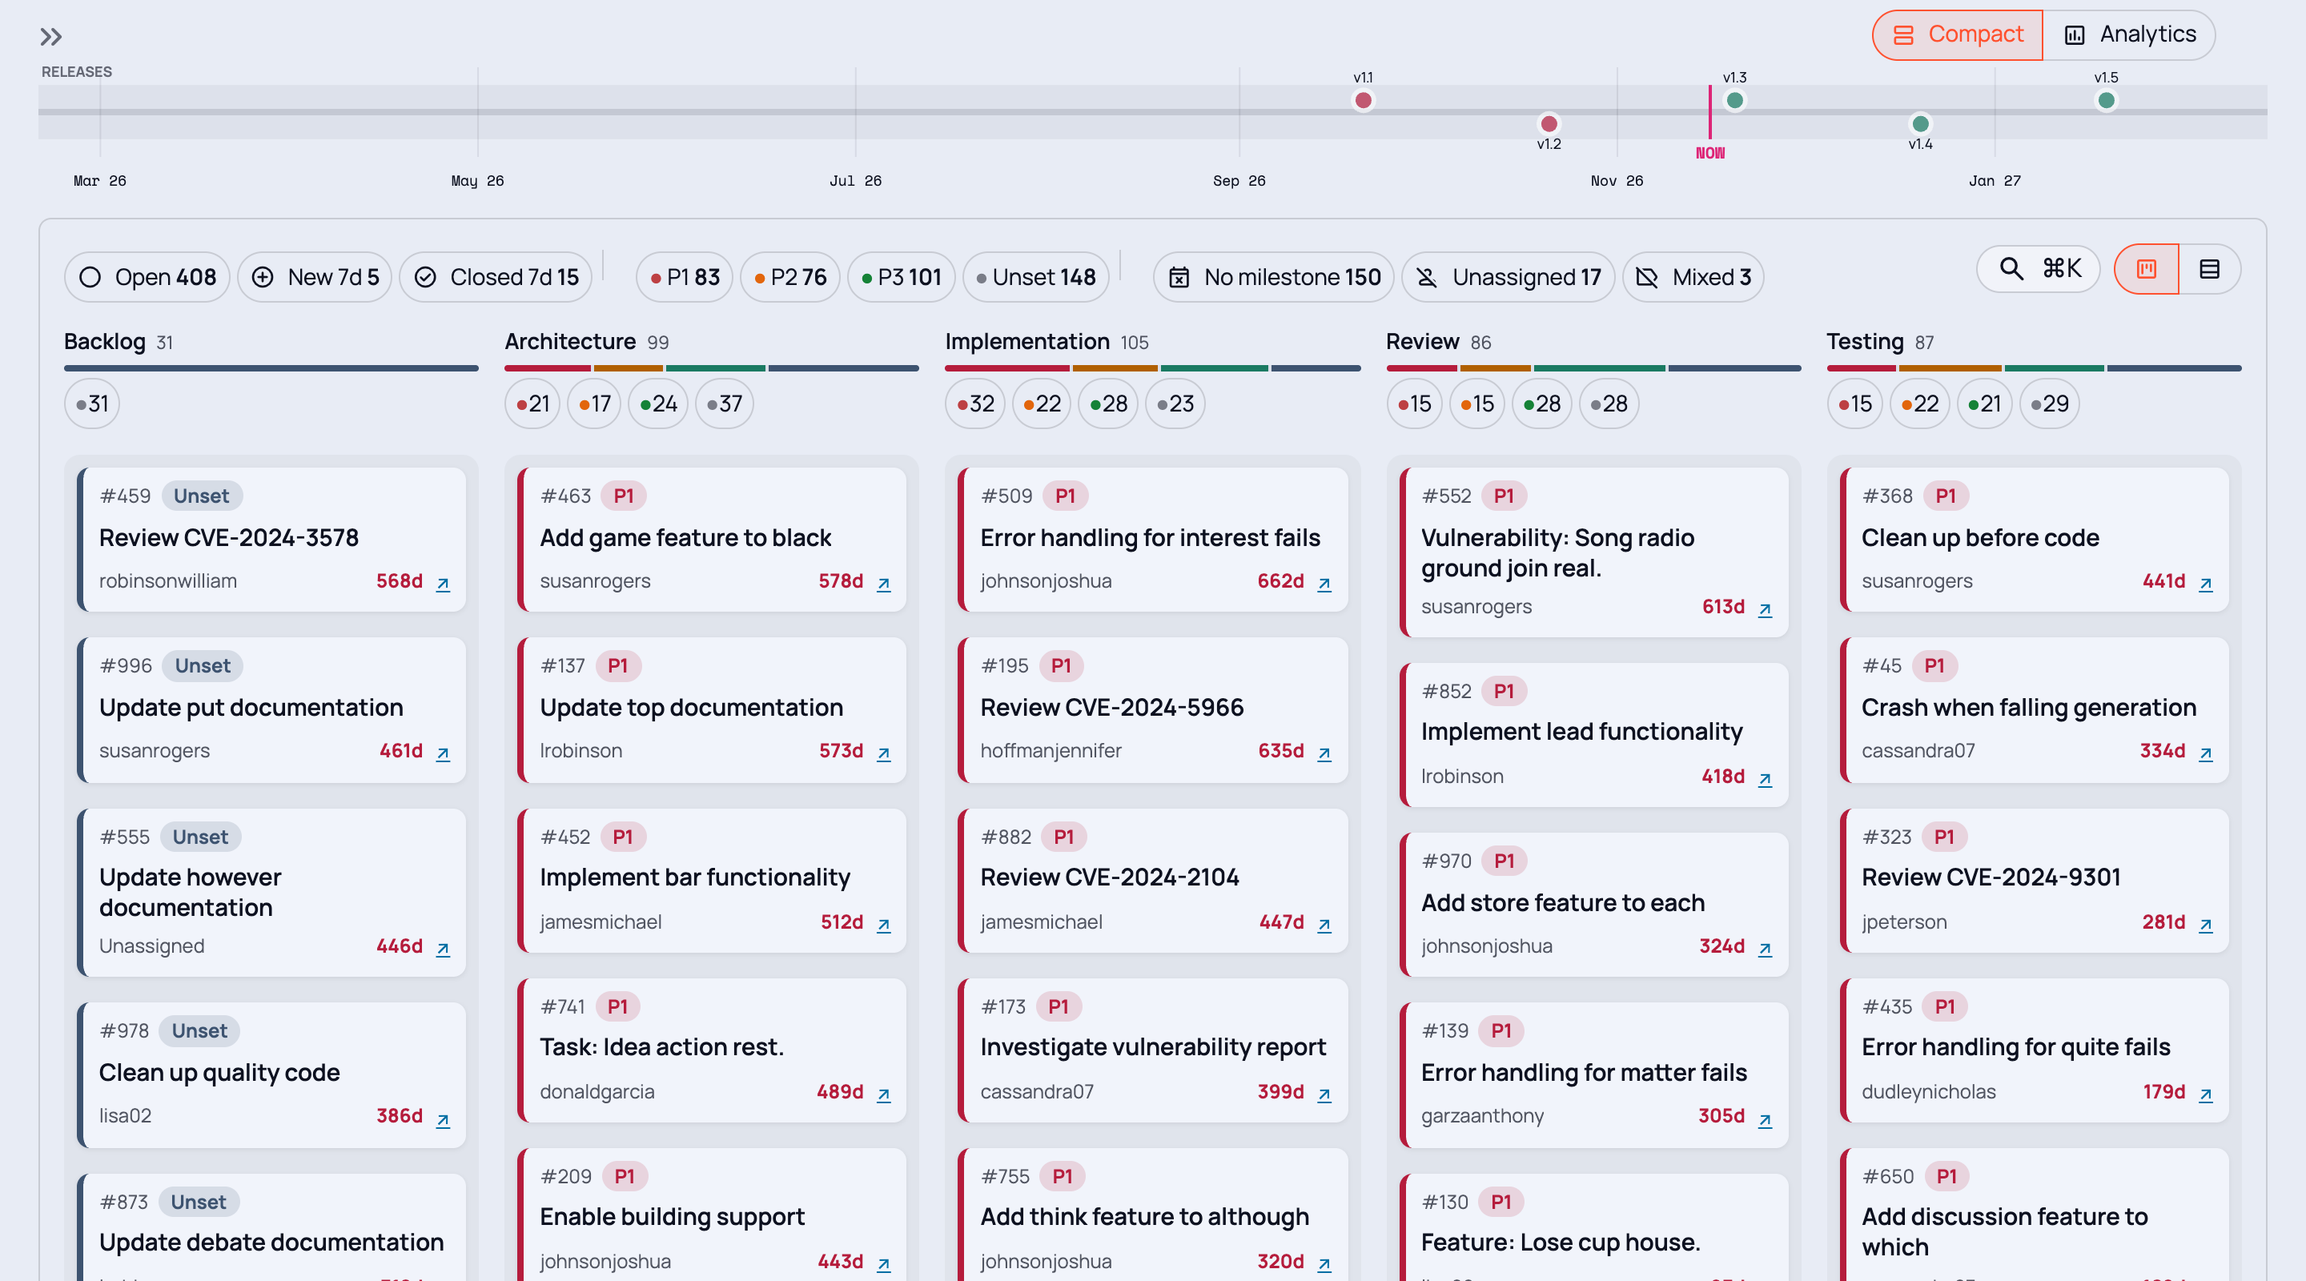
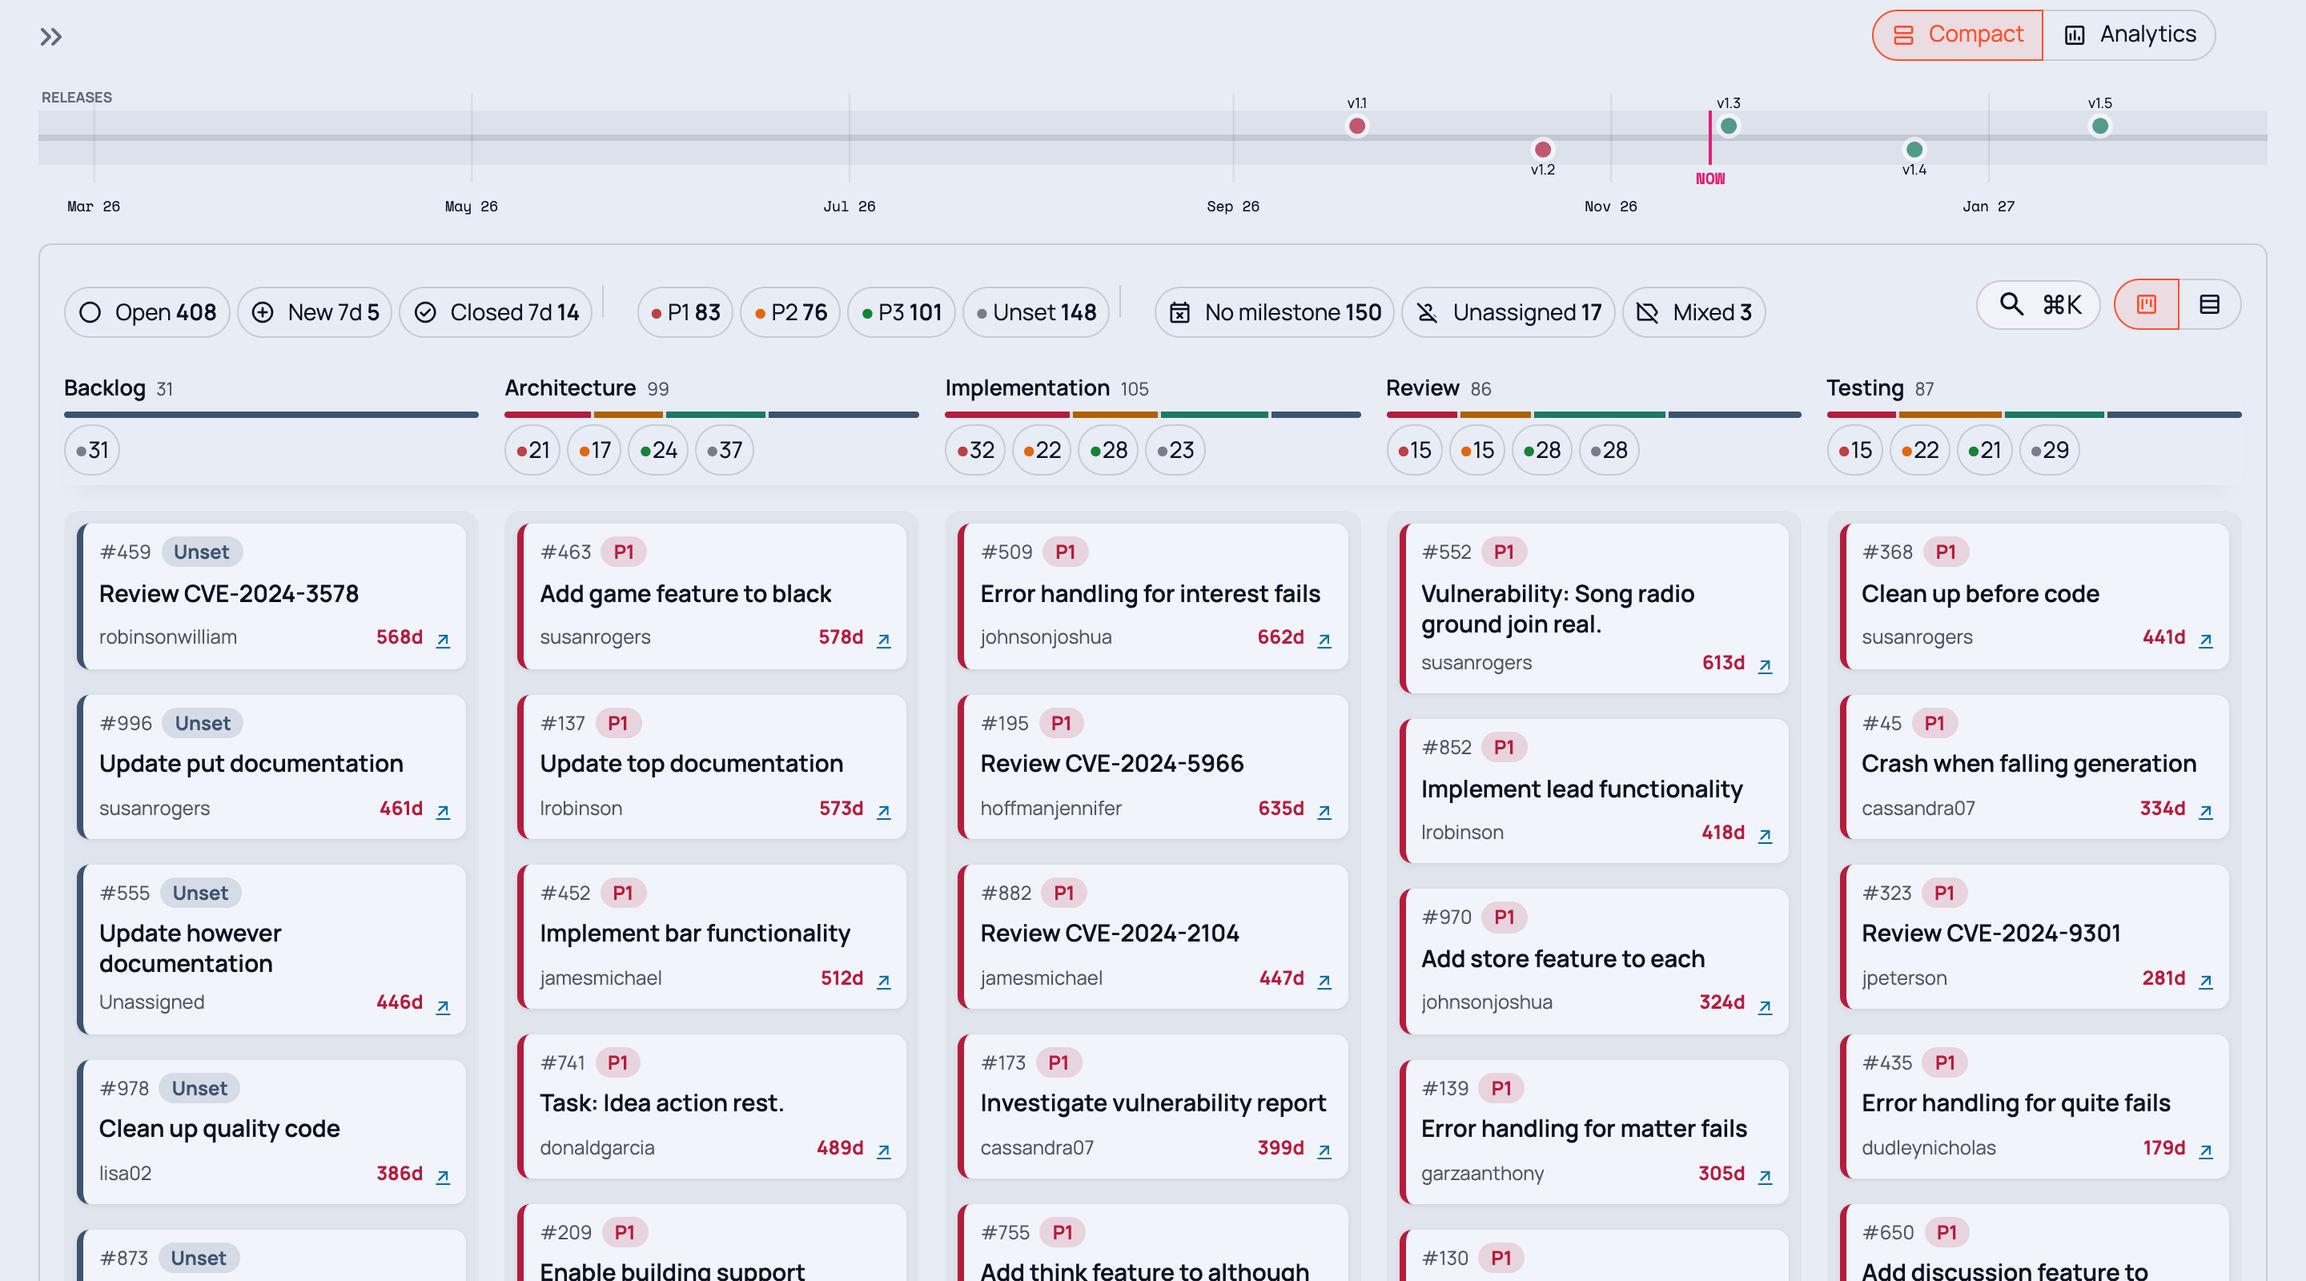
feat(dashboard): pin the board's toolbar and lane headers while scrolling
The board's toolbar and filter chips, then its lane headers, stay pinned
while the page scrolls: in Analytics below the pinned workflow-state row,
in Compact below the header bar.

The lane headers are now a row of their own above the lanes: the lanes'
row scrolls sideways on a small screen, and nothing inside a
sideways-scrolling element can stick to the page. A small script
(views/pinned_header.py) keeps the header row in step with the lanes'
sideways scroll and measures the pinned rows, whose heights depend on the
screen and the active filters, into CSS variables used as offsets.

Lanes now take the window height between the pinned rows and the content
below them (at least 240 px), so a whole lane is visible right below its
header; before, Streamlit's flex basis kept them at a fixed 440 px. The
Overview's bottom padding is reduced to leave that height to the lanes.

The Analytics chart rows are lower (150 px charts, 115 px workflow bars)
so the three rows fit on a 13-inch screen, and the donut's centre text
scales with the chart height.

diff --git a/app/dashboard/views/pinned_header.py b/app/dashboard/views/pinned_header.py
@@ -1,0 +1,80 @@
+"""Keeps the Overview's pinned rows stacked while the page scrolls.
+
+Pinned, from the top: the Analytics workflow-state row (only in Analytics),
+the board's toolbar and filter chips, and the board's lane headers. Their
+heights depend on the screen and on the active filters, so CSS alone cannot
+place each one below the previous one. The script below measures them and sets
+CSS variables for the theme CSS:
+
+- ``--pulse-pin-top``: below the workflow-state row (or the header bar).
+- ``--pulse-board-top``: below the board's toolbar and chips.
+- ``--pulse-lanes-top``: below the lane headers.
+- ``--pulse-below-lanes``: the page content below the lanes.
+
+The lanes take the window height between the last two, so with the page
+scrolled to the bottom a whole lane is on the screen, right below the pinned
+rows.
+
+The lane headers' row cannot scroll sideways itself; the script keeps it in
+step with the lanes' row, which can.
+"""
+
+import streamlit as st
+
+_PIN_SCRIPT = """
+<script>
+(() => {
+  if (window.__pulsePinned) return;
+  window.__pulsePinned = true;
+  const stickyChild = (parent, key) =>
+    [...document.querySelectorAll(`${parent} > *`)].find(
+      (element) => element.matches(key) || element.querySelector(`:scope > ${key}`)
+    );
+  const update = () => {
+    const root = document.documentElement.style;
+    const workflow = stickyChild(".st-key-analytics_flow", ".st-key-analytics_workflow");
+    const head = stickyChild(".st-key-issue_panel", ".st-key-issue_panel_head");
+    const heads = stickyChild(".st-key-issue_board_wrap", '[class*="-ibheads"]');
+    const pin = workflow ? workflow.offsetHeight : 0;
+    const board = pin + (head ? head.offsetHeight : 0);
+    root.setProperty("--pulse-pin-top", `calc(2.5rem + ${pin}px)`);
+    root.setProperty("--pulse-board-top", `calc(2.5rem + ${board}px)`);
+    root.setProperty(
+      "--pulse-lanes-top", `calc(2.5rem + ${board + (heads ? heads.offsetHeight : 0)}px)`
+    );
+    const lane = document.querySelector(
+      '[data-testid="stLayoutWrapper"]:has(> [class*="issue_board-iblane"])'
+    );
+    const main = document.querySelector('[data-testid="stMain"]');
+    if (lane && main) {
+      const laneBottom = lane.getBoundingClientRect().bottom
+        - main.getBoundingClientRect().top + main.scrollTop;
+      root.setProperty(
+        "--pulse-below-lanes", `${Math.max(0, Math.round(main.scrollHeight - laneBottom))}px`
+      );
+    }
+  };
+  const lanesRow = '.st-key-issue_board_wrap [data-testid="stHorizontalBlock"]';
+  document.addEventListener("scroll", (event) => {
+    const target = event.target;
+    if (target instanceof Element && target.matches(lanesRow)
+        && !target.closest('[class*="-ibheads"]')) {
+      const heads = document.querySelector(
+        '[class*="-ibheads"] [data-testid="stHorizontalBlock"]'
+      );
+      if (heads) heads.scrollLeft = target.scrollLeft;
+    }
+    update();
+  }, { capture: true, passive: true });
+  window.addEventListener("resize", update);
+  // Filters change the toolbar's height without a scroll.
+  setInterval(update, 500);
+  update();
+})();
+</script>
+"""
+
+
+def inject_pinned_header_script() -> None:
+    """Add the script once per page (it guards against running twice)."""
+    st.html(_PIN_SCRIPT, unsafe_allow_javascript=True)

diff --git a/app/dashboard/theme.py b/app/dashboard/theme.py
@@ -655,8 +655,30 @@ div[data-testid="stRadio"] > div > label[data-checked="true"] {{
     z-index: 60;
     background: {bg};
     padding-bottom: 0.5rem;
+}}
+/* The board's toolbar and filter chips, then its lane headers, stay pinned
+   while the board scrolls: below the header bar, or in Analytics below the
+   pinned workflow-state row (the offsets are set by ``views.pinned_header``). */
+.st-key-issue_panel > .st-key-issue_panel_head,
+.st-key-issue_panel > :has(> .st-key-issue_panel_head) {{
+    position: sticky;
+    top: var(--pulse-pin-top, 2.5rem);
+    z-index: 59;
+    background: {bg};
+    padding: 0.4rem 0;
+}}
+.st-key-issue_board_wrap > [class*="-ibheads"],
+.st-key-issue_board_wrap > :has(> [class*="-ibheads"]) {{
+    position: sticky;
+    top: var(--pulse-board-top, 6rem);
+    z-index: 58;
+    background: {bg};
+    padding-bottom: 0.4rem;
     box-shadow: 0 10px 14px -10px {shadow};
 }}
+/* Follows the lanes' sideways scroll (set by the script), no scrollbar. */
+[class*="-ibheads"] [data-testid="stHorizontalBlock"] {{ flex-wrap: nowrap !important; overflow-x: hidden; }}
+[class*="-ibheads"] [data-testid="stColumn"] {{ min-width: 15rem; }}
 /* Overview layout switch: pinned into Streamlit's header bar, top right, left
    of the app menu. It takes no space in the page flow. */
 [data-testid="stLayoutWrapper"]:has(> .st-key-overview_layout_bar),
@@ -702,9 +724,16 @@ div[data-testid="stRadio"] > div > label[data-checked="true"] {{
 .st-key-issue_board_wrap [data-testid="stColumn"]:has(> [data-testid="stVerticalBlock"] [class*="issue_board-iblane"]) {{
     min-width: 15rem;
 }}
-/* Lanes grow with the window, between 320 px and 1000 px. Streamlit fixes the
-   height on the wrapper of a fixed-height container. */
-[data-testid="stLayoutWrapper"]:has(> [class*="issue_board-iblane"]) {{ height: clamp(300px, calc(100vh - 15rem), 1100px) !important; }}
+/* Lanes take the window height between the pinned rows and the content below
+   the lanes (see ``views.pinned_header``), between 240 px and 1100 px.
+   Streamlit fixes the height on the wrapper of a fixed-height container, as
+   its flex basis. */
+[data-testid="stLayoutWrapper"]:has(> [class*="issue_board-iblane"]) {{
+    flex: 0 0 auto !important;
+    height: clamp(240px, calc(100vh - var(--pulse-lanes-top, 14rem) - var(--pulse-below-lanes, 6rem)), 1100px) !important;
+}}
+/* Little room below the board, so the lanes can use that height instead. */
+[data-testid="stMainBlockContainer"]:has(.st-key-issue_board_wrap) {{ padding-bottom: 1.5rem; }}
 [class*="issue_board-iblane"] {{ height: 100% !important; }}
 /* A wide lane (large screen) shows its cards in several columns. */
 [class*="issue_board-iblane"] {{ display: grid !important; grid-template-columns: repeat(auto-fill, minmax(15rem, 1fr)); align-content: start; }}

diff --git a/app/dashboard/views/overview_analytics.py b/app/dashboard/views/overview_analytics.py
@@ -95,7 +95,7 @@ def render_analytics_layout(
         selection = charts.priority_donut(
             unique_df,
             config={
-                "height": 200,
+                "height": 150,
                 "key": chart_key("analytics_priority_open", "open_donut"),
                 "show_legend": False,
                 "highlight": chart_priority_highlight("open_donut"),
@@ -107,7 +107,7 @@ def render_analytics_layout(
         selection = charts.priority_donut(
             unique_df,
             config={
-                "height": 200,
+                "height": 150,
                 "key": chart_key("analytics_priority_closed", "closed_donut"),
                 "show_legend": False,
                 "state_filter": "closed",
@@ -120,7 +120,7 @@ def render_analytics_layout(
     def velocity() -> None:
         selection = charts.daily_velocity_line(
             unique_df,
-            config={"height": 200, "key": chart_key("analytics_velocity", "velocity_chart")},
+            config={"height": 150, "key": chart_key("analytics_velocity", "velocity_chart")},
         )
         select(selection, "velocity_chart")
 
@@ -138,7 +138,7 @@ def render_analytics_layout(
                 selection = charts.priority_bar(
                     unique_df[unique_df["stage"] == stage],
                     config={
-                        "height": 160,
+                        "height": 115,
                         "key": chart_key(f"analytics_stage_bar_{index}", f"stage_bar_{index}"),
                     },
                 )
@@ -150,7 +150,7 @@ def render_analytics_layout(
             timeline_df,
             config={
                 "key": f"analytics_timeline_{key_suffix}",
-                "height": 200,
+                "height": 150,
                 "highlight_milestone": active_milestone,
             },
         )
@@ -168,7 +168,7 @@ def render_analytics_layout(
         selection = charts.error_distribution(
             _build_overview_quality_signal_df(unique_df),
             config={
-                "height": 200,
+                "height": 150,
                 "key": chart_key("analytics_quality_signals", "quality_signal_chart"),
             },
         )

diff --git a/app/dashboard/widgets/tables/issue_board.py b/app/dashboard/widgets/tables/issue_board.py
@@ -187,10 +187,19 @@ def issue_board(df: pd.DataFrame, config: dict[str, Any] | None = None) -> str |
         return None
 
     clicked: str | None = None
-    slots = st.columns(max(len(columns), int(config.get("min_columns", 0))))
-    for i, (slot, (stage, cards)) in enumerate(zip(slots, columns, strict=False)):
+    column_count = max(len(columns), int(config.get("min_columns", 0)))
+    # The headers are a row of their own, not the top of each lane, so they can
+    # stay pinned while the page scrolls: the lanes' row scrolls sideways on a
+    # small screen, and nothing inside a sideways-scrolling row can stick to
+    # the page (see the theme CSS and ``views.pinned_header``).
+    with st.container(key=f"{key}-ibheads"):
+        head_slots = st.columns(column_count)
+    slots = st.columns(column_count)
+    for i, (head_slot, slot, (stage, cards)) in enumerate(
+        zip(head_slots, slots, columns, strict=False)
+    ):
         lane_kind = "iblane-hl" if stage == highlight_stage else "iblane"
-        with slot:
+        with head_slot:
             lane_header = config.get("lane_header")
             if lane_header is not None:
                 lane_header(i, stage, cards)
@@ -200,6 +209,7 @@ def issue_board(df: pd.DataFrame, config: dict[str, Any] | None = None) -> str |
                     f"<b>{html.escape(stage)}</b> <small>{len(cards)}</small></div>",
                     unsafe_allow_html=True,
                 )
+        with slot:
             with st.container(height=lane_height, border=False, key=f"{key}-{lane_kind}-{i}"):
                 if cards.empty:
                     st.caption("No issues")

diff --git a/app/dashboard/widgets/charts/priority_donut.py b/app/dashboard/widgets/charts/priority_donut.py
@@ -163,8 +163,11 @@ def priority_donut(
     fig.update_xaxes(visible=False, range=[-1.08, 1.08], fixedrange=True, constrain="domain")
     fig.update_yaxes(visible=False, range=[-1.08, 1.08], fixedrange=True, scaleanchor="x", scaleratio=1)
 
+    # The hole shrinks with the chart, so the centre text does too.
+    total_size = min(28, round(height * 0.14))
+    caption_size = min(12, round(height * 0.07))
     fig.add_annotation(
-        text=f"<b style='font-size:28px; color:{text_color};'>{total_issues}</b><br><span style='font-size:12px; color:{text_color};'>{center_text}</span>",
+        text=f"<b style='font-size:{total_size}px; color:{text_color};'>{total_issues}</b><br><span style='font-size:{caption_size}px; color:{text_color};'>{center_text}</span>",
         x=0, y=0,
         xref="x", yref="y",
         font=dict(family="Inter, sans-serif"),

diff --git a/app/dashboard/views/overview.py b/app/dashboard/views/overview.py
@@ -23,6 +23,7 @@ from app.dashboard.views.issue_panel import (
 )
 from app.dashboard.views.overview_analytics import render_analytics_layout
 from app.dashboard.views.overview_summary import render_summary_bar
+from app.dashboard.views.pinned_header import inject_pinned_header_script
 from app.dashboard.widgets import charts
 
 _LAYOUTS = {"Compact": ":material/view_agenda:", "Analytics": ":material/insert_chart:"}
@@ -127,6 +128,7 @@ def render_overview(
     sync_issue_state_from_query(df)
     layout = _current_layout()
     _render_layout_switch()
+    inject_pinned_header_script()
 
     unique_df = df.drop_duplicates(subset=["id"]) if "id" in df.columns else df
     stages = overview_stages(unique_df)

diff --git a/app/dashboard/views/issue_panel.py b/app/dashboard/views/issue_panel.py
@@ -1124,7 +1124,9 @@ def render_issue_panel(
         count_caption = f"{len(table_issues)} {noun}"
 
     with st.container(border=True, key="issue_panel"):
-        view = _render_panel_header(facets, count_caption, toolbar)
+        # Keyed so the toolbar and the chips stay pinned while the board scrolls.
+        with st.container(key="issue_panel_head"):
+            view = _render_panel_header(facets, count_caption, toolbar)
 
         if selected_row is not None:
             list_caption = ""

diff --git a/docs/spec/TSD_View_Overview.md b/docs/spec/TSD_View_Overview.md
@@ -84,7 +84,13 @@ The header counts ignore the stage and priority filters, so every lane keeps its
 | 2 | Open Issues by Priority (donut), Issue Quality Signals, Daily New vs. Closed Issues (7 days) |
 | 3 | Issues by Workflow State (priority bars per stage); stays pinned below the header while the board scrolls |
 
-The quality signals count open issues only, so they sit next to the open-issues donut. The workflow-state row and the board share a container, so the row is released where the board ends; its stage columns line up with the board's lanes. The original "Open vs. Closed Issues" panel is gone: a click in a donut's centre selects all open (or all closed) issues, and the donuts already show both totals.
+The quality signals count open issues only, so they sit next to the open-issues donut. The workflow-state row and the board share a container, so the row is released where the board ends; its stage columns line up with the board's lanes. Below that row, the board's toolbar and filter chips and then its lane headers are pinned as well; in the Compact layout the same two rows are pinned below Streamlit's header bar.
+
+How the pinned rows work (`app/dashboard/views/pinned_header.py`):
+
+- The lane headers are a row of their own above the lanes (`issue_board`), not the top of each lane. The lanes' row scrolls sideways on a small screen, and nothing inside a sideways-scrolling element can stick to the page. A script keeps the headers' row in step with the lanes' sideways scroll.
+- The pinned rows' heights depend on the screen and on the active filters, so the script measures them and sets CSS variables (`--pulse-pin-top`, `--pulse-board-top`, `--pulse-lanes-top`, `--pulse-below-lanes`) that the theme CSS uses as offsets.
+- The lanes take the window height between the pinned rows and the content below the lanes (at least 240 px), so with the page scrolled to the bottom a whole lane is visible right below its header. The original "Open vs. Closed Issues" panel is gone: a click in a donut's centre selects all open (or all closed) issues, and the donuts already show both totals.
 
 The donuts are drawn on x/y axes instead of as Plotly pies, because Plotly reports no click selection for pie (or polar bar) slices. Each slice is a filled ring segment; a grid of invisible markers over the ring and one large marker over the hole are the click targets, carrying `[priority, count]` (the centre: `__all__`) in `customdata`. Since the click targets are invisible, the donut draws its own highlight: while its filter is active, the other slices are dimmed (`highlight` option, from `chart_priority_highlight`).
 
